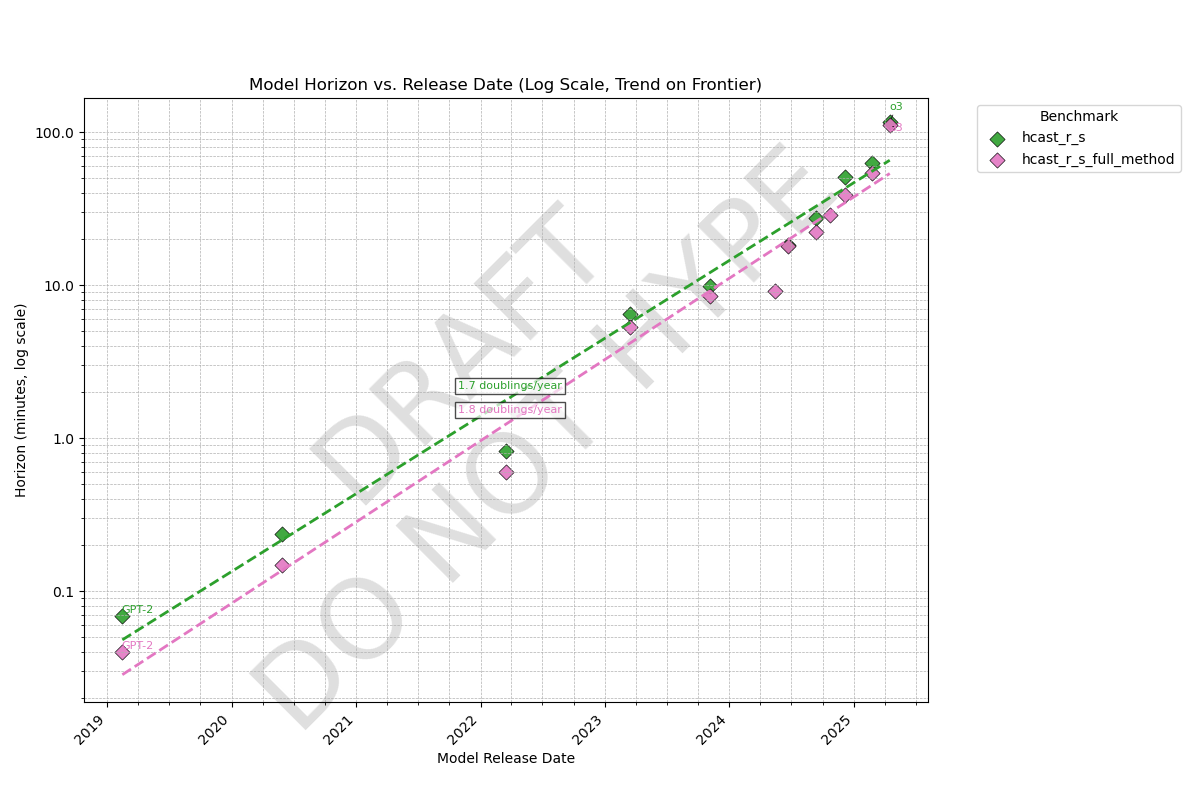
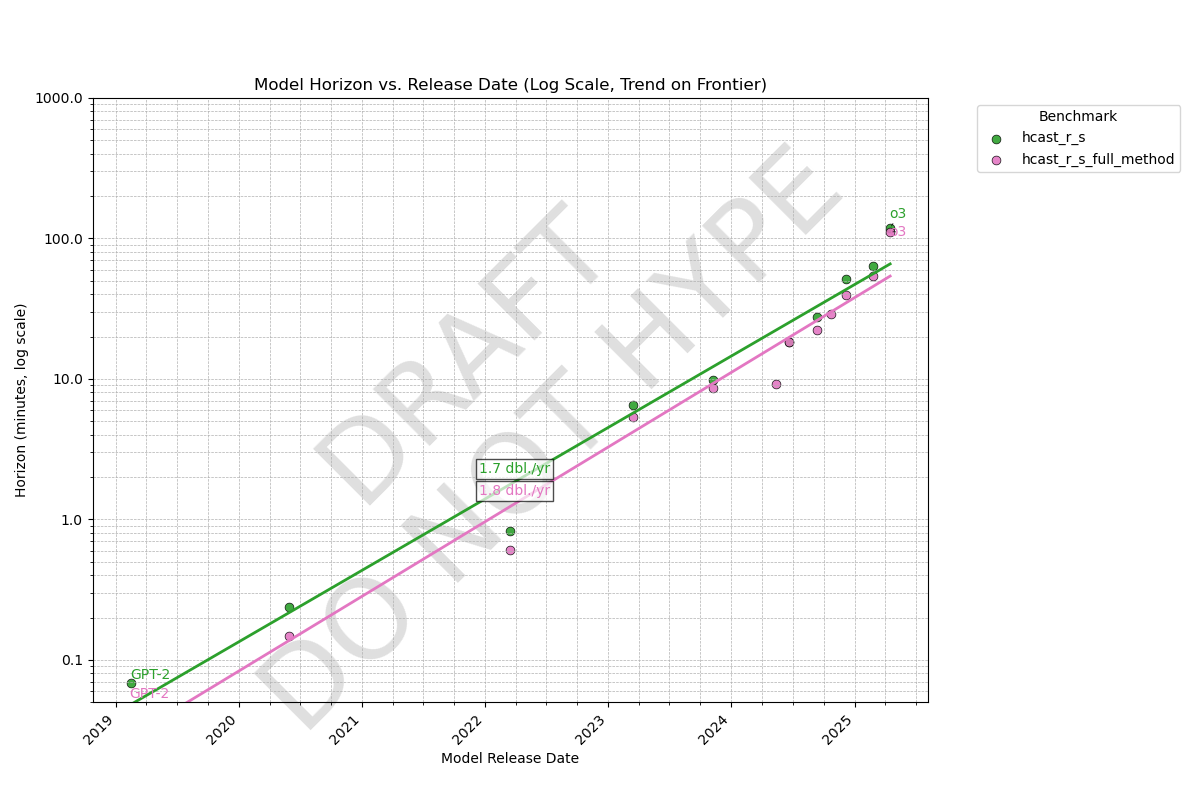
plot formatting

diff --git a/plots.py b/plots.py
@@ -24,10 +24,10 @@ LENGTH_DEPENDENCE_OUTPUT_FILE = 'plots/length_dependence.png'
 Y_AXIS_MIN_SECONDS = 60  # 1 minute
 
 plotting_aliases = {
-    "google_gemini_1_5_pro_002": "Gemini 1.5 Pro",
-    "google_gemini_2_5_pro_exp": "Gemini 2.5 Pro",
-    "Gemini 2.0 Flash Experimental": "Gemini 2.0 Flash",
-    "openai_gpt_4_vision": "GPT-4 Vision",
+    "google_gemini_1_5_pro_002": "G 1.5 Pro",
+    "google_gemini_2_5_pro_exp": "G 2.5 Pro",
+    "Gemini 2.0 Flash Experimental": "G 2.0 Flash",
+    "openai_gpt_4_vision": "GPT-4V",
     "openai_gpt_3_5": "GPT-3.5",
     "anthropic_claude_3_7_sonnet": "Claude 3.7",
     "openai_gpt_2": "GPT-2",
@@ -173,35 +173,38 @@ def plot_lines_over_time(df, output_file,
         frontier_data = bench_data[bench_data['is_frontier']]
         non_frontier_data = bench_data[~bench_data['is_frontier']]
 
-        length_data = benchmark_data[benchmark_data['benchmark'] == bench]
-        print(length_data.head())
+        length_data = benchmark_data[benchmark_data['benchmark'] == bench]['length']
+        p2 = length_data.quantile(0.02)
+        p98 = length_data.quantile(0.98)
+        if pd.isna(p2) or pd.isna(p98):
+            p2 = 0
+            p98 = 10**10
+        print(f"p2: {p2}, p98: {p98}")
+
+        def scatter_points(data, label, **kwargs):
+            ax.scatter(
+                data['release_date'],
+                data['horizon_minutes'],
+                color=color,
+                label=label,
+                **kwargs
+            )
 
         # Plot non-frontier points (circles)
         if not only_frontier:
-            ax.scatter(
-                non_frontier_data['release_date'], # Use datetime objects for x-axis plotting
-                non_frontier_data['horizon_minutes'],
-                color=color,
-                marker='o',
-                label=f"_{bench}_nonfrontier", # Main label for legend
-                alpha=0.2,
-                s=50,
-                edgecolor='k', # Add edge color for better visibility
-                linewidth=0.5
-            )
+            scatter_points(non_frontier_data, f"_{bench}_nonfrontier", marker='o', alpha=0.2, s=30, edgecolor='k', linewidth=0.5)
+
+        df_within = frontier_data[(frontier_data['horizon_minutes'] > p2) & (frontier_data['horizon_minutes'] < p98)]
+        df_above = frontier_data[frontier_data['horizon_minutes'] > p98]
+        df_below = frontier_data[frontier_data['horizon_minutes'] < p2]
+
+        print(frontier_data.head())
+        print(df_within.head())
 
         # Plot frontier points (diamonds)
-        ax.scatter(
-            frontier_data['release_date'],
-            frontier_data['horizon_minutes'],
-            color=color,
-            marker='D',
-            label=f"{bench}", # Hidden label for legend
-            alpha=0.9,
-            s=60,
-            edgecolor='k',
-            linewidth=0.5
-        )
+        scatter_points(df_within, f"{bench}", marker='o', alpha=0.9, s=40, edgecolor='k', linewidth=0.5)
+        scatter_points(df_above, f"_{bench}_above", marker='P', alpha=0.9, s=30, edgecolor='k', linewidth=0.5)
+        scatter_points(df_below, f"_{bench}_below", marker='$-$', alpha=0.9, s=30, edgecolor='k', linewidth=0.5)
 
         # Fit and plot regression line using only frontier points
         if len(frontier_data) >= 2:
@@ -222,19 +225,26 @@ def plot_lines_over_time(df, output_file,
             mid_point_idx = len(x_line_num) // 2
             mid_x_num = x_line_num[mid_point_idx]
             mid_y = 2**y_line_log[mid_point_idx]
-            
-            rate_text = f"{doubling_rate:.1f} doublings/year"
-                
-            # Convert numerical date to datetime for text positioning
             mid_x = mdates.num2date(mid_x_num)
             
-            ax.text(mid_x, mid_y * 1.1, rate_text, fontsize=8, color=color, 
+            rate_text = f"{doubling_rate:.1f} dbl./yr"
+            ax.text(mid_x, mid_y * 1.1, rate_text, fontsize=10, color=color, 
                    ha='center', va='bottom', bbox=dict(facecolor='white', alpha=0.7, pad=2))
 
-            x_line_date = mdates.num2date(x_line_num)
+            x_line_date = np.array(mdates.num2date(x_line_num))
             y_line = 2.0**y_line_log
 
-            ax.plot(x_line_date, y_line, color=color, linestyle='--', linewidth=2, label=f"_{bench}_trend")
+            # Split the line into three segments based on p2 and p98
+            mask_within = (y_line >= p2) & (y_line <= p98)
+            mask_above = y_line > p98
+            mask_below = y_line < p2
+
+
+            # Plot each segment with appropriate style
+            densely_dotted = (0, (1, 1))
+            ax.plot(x_line_date[mask_within], y_line[mask_within], color=color, linestyle='-', linewidth=2, label=f"_{bench}_trend")
+            ax.plot(x_line_date[mask_above], y_line[mask_above], color=color, alpha=0.4, linestyle=densely_dotted, linewidth=2)
+            ax.plot(x_line_date[mask_below], y_line[mask_below], color=color, alpha=0.4, linestyle=densely_dotted, linewidth=2)
 
             # Add text labels for first and last frontier points
             if not frontier_data.empty:
@@ -253,14 +263,14 @@ def plot_lines_over_time(df, output_file,
                     texts.append(ax.text(point['release_date'],
                                          point['horizon_minutes'],
                                          model_name,
-                                         fontsize=8, color=color))
+                                         fontsize=10, color=color))
 
                 text_label(first_frontier_point)
-                if len(frontier_data_sorted) > 1:
-                    text_label(last_frontier_point)
+                text_label(last_frontier_point)
 
     ax.set_yscale('log')
     ax.yaxis.set_major_formatter(mticker.StrMethodFormatter('{x}'))
+    ax.set_ylim(0.05, 1000)
 
     ax.set_xlabel("Model Release Date")
     ax.set_ylabel("Horizon (minutes, log scale)")
